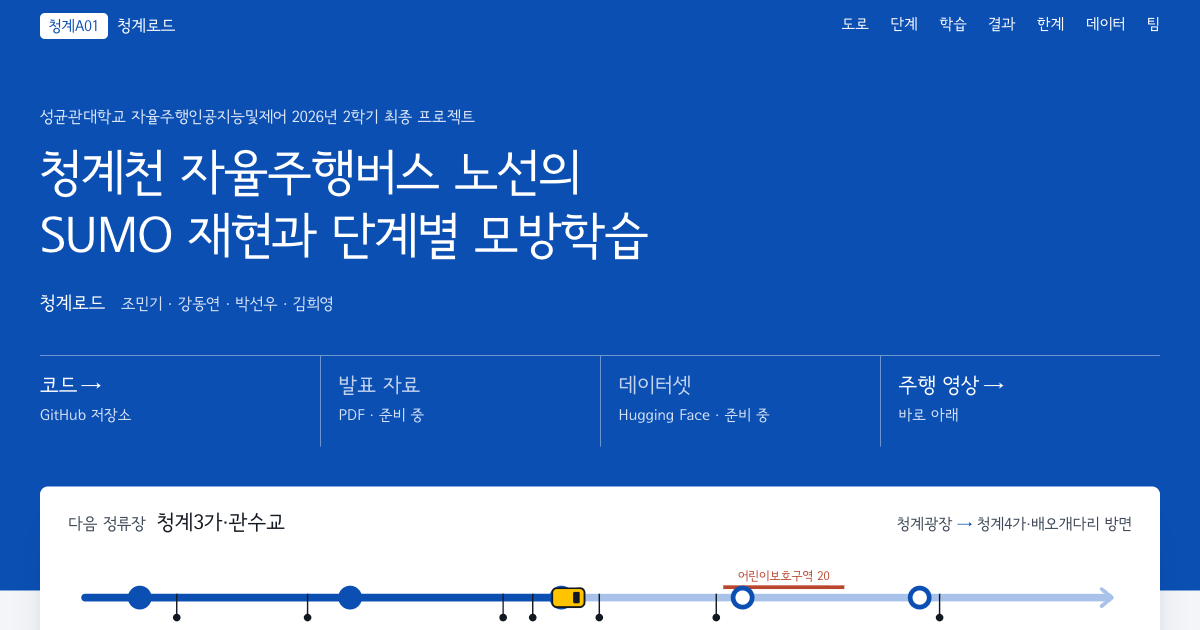
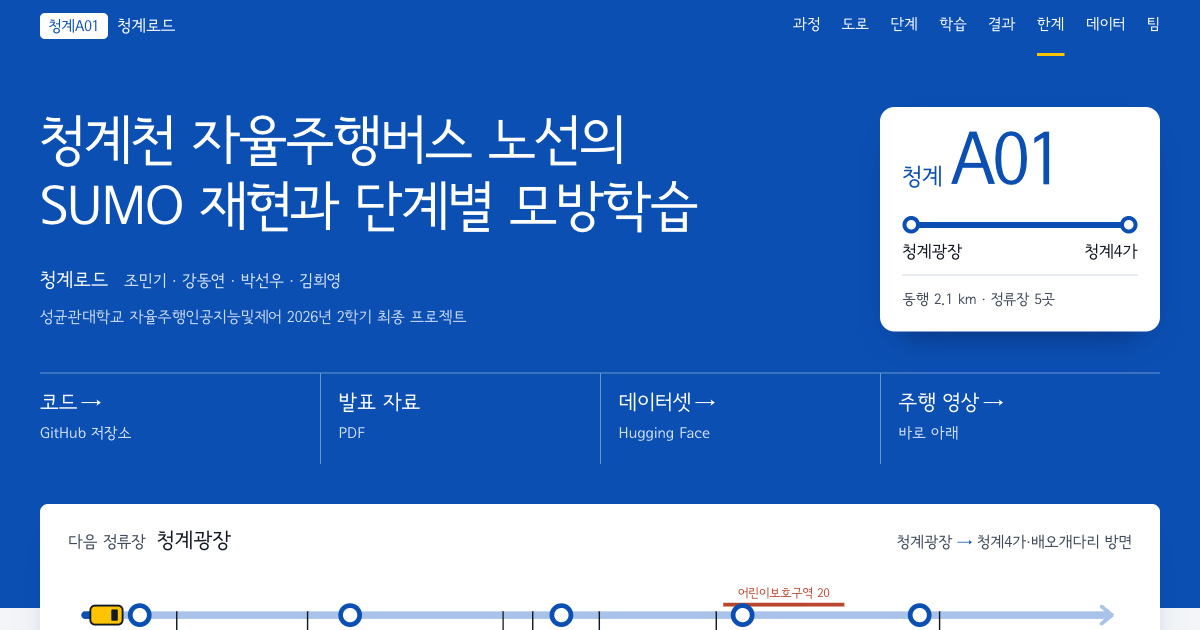
최종 모델 학습 설명·모델 링크, 5단계 수집 내용 표, 팀 역할, 개요 문구, 미리보기 이미지 갱신

diff --git a/index.html b/index.html
@@ -112,7 +112,7 @@
     <p>이 프로젝트의 목표는 사람의 개입을 줄여, 미국 자동차기술자협회(SAE)가 정한 자율주행 4단계(정해진 구역 안에서 사람이 개입하지 않아도 되는 고도 자동화)에 다가가는 모델을 만드는 것입니다.</p>
     <p>이 프로젝트에서는 청계A01의 동행 구간(청계광장 → 청계4가, 2.1&nbsp;km)을 SUMO로 만들었습니다. 도로 형상은 OpenStreetMap, 차로 수는 로드뷰 조사, 신호 주기는 서울시 T-DATA 실측값과 교통영향평가 자료를 썼습니다.</p>
     <p>같은 도로에 ① 정류장 ② 신호 ③ 끼어들기 ④ 어린이보호구역 ⑤ 오토바이를 차례로 추가해 5단계 환경을 만들고, 단계마다 버스 주행 모델을 학습했습니다. 학습에는 규칙 기반 전문가의 주행을 따라 하는 모방학습을 썼고, 5단계 최종 모델은 모방학습 모델을 PPO로 미세조정했습니다.</p>
-    <p>완주율은 1~3단계 97% 이상, 4단계 93.3%, 5단계 87%입니다. 다섯 단계 모두 팀 기준인 85%를 넘었습니다.</p>
+    <p>평가 판 기준 완주율은 1~3단계 97% 이상, 4단계 93.3%, 5단계 87%이고, 다섯 단계 모두 팀 기준인 85%를 넘었습니다. 5단계 최종 모델로 데이터를 수집한 6,000판에서는 81.0%였습니다.</p>
   </div>
 
   <dl class="facts">
@@ -349,6 +349,13 @@
   <div class="prose">
     <p>4단계 BC 모델에서 시작해, PPO를 더해도 BC가 배운 주행이 무너지지 않는지 확인하기 위해 KL 페널티를 준 PPO 미세조정을 30만 step 학습했습니다. 앞서 BC 모델에 PPO를 그대로 이어 학습했을 때 주행이 무너졌기 때문에, 이미 잘 달리는 4단계에서 안정성부터 확인한 것입니다. 10만 step 체크포인트는 개발 판 30개에서 완주 100%, 충돌 0%를 유지했고, KL 페널티가 없는 대조군은 완주 80%, 충돌 20%로 무너졌습니다.</p>
   </div>
+
+  <h3>5단계 최종 모델 (BC 후 PPO 미세조정)</h3>
+  <div class="prose">
+    <p>최종 모델은 5단계 BC 모델(<code>s5_student.pt</code>)에서 시작해 같은 방식으로 PPO를 30만 step 더 학습한 것입니다. KL 페널티 계수는 0.1에서 시작해 0.01 아래로 내리지 않았고, 차선변경 출력은 BC 모델의 것을 그대로 두고 가감속만 학습했습니다. 보상에서 속도 항은 뺐고, 가치 신경망은 정책과 분리했습니다. 학습률은 정책 1e-5, 가치 1e-4, 할인율은 0.99입니다.</p>
+    <p>평가와 데이터 수집에는 25만 step 체크포인트(<code>step250k.pt</code>)를 썼습니다. 개발 판 30개에서 완주 93.3%, 충돌 1판이었고, 학습에 쓰지 않은 평가 판 100개에서 완주 87%, 충돌 3%입니다.</p>
+  </div>
+  <p class="links"><a href="https://github.com/TranserZ/Artificial-Intelligence-and-Control-for-Autonomous-Driving/tree/model/kl-ppo/results/klppo1_s5_s0">최종 모델 폴더 (step250k.pt, 학습 설정, 평가 방법)</a></p>
   </div>
 </section>
 
@@ -452,7 +459,7 @@
     <p>6단계(5단계 + 불법주정차)도 학습했지만 팀 기준을 넘지 못해, 팀 최종 환경은 5단계로 정했습니다.</p>
   </div>
 
-  <h4>6단계 최종 모델</h4>
+  <h4>6단계 BC 모델</h4>
   <div class="tbl">
     <table class="narrow">
       <thead><tr><th>평가 판</th><th class="n">판 수</th><th class="n">완주</th><th class="n">충돌</th></tr></thead>
@@ -503,7 +510,7 @@
   </div>
 
   <div class="prose">
-    <p>수집 코드는 <code>collect_pomdp_data.py</code>이고, 전문가 또는 학생이 주행하는 동안 스텝마다 한 행을 기록합니다. 제출한 5단계 데이터는 최종 모델(PPO 미세조정)이 주행한 기록입니다. 값이 없는 칸은 −1입니다. 신호가 없는 1단계에서는 신호 관련 42칸이 모두 −1입니다.</p>
+    <p>수집 코드는 <code>collect_pomdp_data.py</code>이고, 모델이 주행하는 동안 스텝마다 한 행을 기록합니다. 값이 없는 칸은 −1입니다. 신호가 없는 1단계에서는 신호 관련 42칸이 모두 −1입니다.</p>
   </div>
 
 <pre class="code" tabindex="0"><code>import pandas as pd
@@ -512,9 +519,29 @@ df = pd.read_csv("data/&lt;이름&gt;.table.csv.gz")
 X = df.filter(like="obs.").to_numpy()                               # 관측 67개
 y = df[["action_raw.accel", "action_raw.lane_change"]].to_numpy()   # BC 정답</code></pre>
 
+  <h3>5단계 수집 내용</h3>
+  <div class="prose">
+    <p>제출한 데이터는 5단계 최종 모델(<code>step250k.pt</code>)이 규칙과 안전 필터 없이 결정적 행동으로 주행한 기록입니다. 담당 번호마다 seed 2,000개를 맡아 2,000판씩 수집했고, 충돌이나 시간초과로 끝난 판도 빼지 않고 담았습니다. 판은 <code>seed</code> 열로 구분합니다.</p>
+  </div>
+  <div class="tbl">
+    <table class="narrow">
+      <thead><tr><th>담당</th><th>seed</th><th class="n">판 수</th><th class="n">행 수</th><th class="n">SUMO</th></tr></thead>
+      <tbody>
+        <tr><td>1번</td><td>5,000,000 ~ 5,001,999</td><td class="n">2,000</td><td class="n">2,894,132</td><td class="n">1.25.0</td></tr>
+        <tr><td>2번</td><td>5,010,000 ~ 5,011,999</td><td class="n">2,000</td><td class="n">2,931,022</td><td class="n">1.27.1</td></tr>
+        <tr><td>3번</td><td>5,020,000 ~ 5,021,999</td><td class="n">수집 중</td><td class="n">–</td><td class="n">1.25.0</td></tr>
+        <tr><td>4번</td><td>5,030,000 ~ 5,031,999</td><td class="n">2,000</td><td class="n">2,901,267</td><td class="n">1.25.0</td></tr>
+        <tr><td><b>1·2·4번 합계</b></td><td></td><td class="n">6,000</td><td class="n">8,726,421</td><td class="n"></td></tr>
+      </tbody>
+    </table>
+  </div>
+  <p class="note">환경 변수는 <code>CGC_STAGE=5</code>, <code>OBS_SCAN=0</code>입니다. 6,000판의 충돌률은 4.78%이고 담당별로는 1번 5.55%, 2번 3.25%, 4번 5.55%입니다. 2번만 SUMO 버전이 달라 차이가 난 것으로 봅니다.</p>
+
   <p class="links">
     <a data-link="dataset" href="#">Hugging Face 데이터셋</a>
     <a href="https://github.com/TranserZ/Artificial-Intelligence-and-Control-for-Autonomous-Driving/blob/BehaviorCloning/docs/data_columns.md">컬럼 정의 전체 (data_columns.md)</a>
+    <a href="https://github.com/TranserZ/Artificial-Intelligence-and-Control-for-Autonomous-Driving/tree/data/s5-mingi/data_mingi">수집 데이터 1·4번 (GitHub)</a>
+    <a href="https://github.com/TranserZ/Artificial-Intelligence-and-Control-for-Autonomous-Driving/tree/data/s5-p2-dongyeon/data_dongyeon/s5_data_p2">수집 데이터 2번 (GitHub)</a>
   </p>
   </div>
 </section>
@@ -538,14 +565,15 @@ y = df[["action_raw.accel", "action_raw.lane_change"]].to_numpy()   # BC 정답<
     </li>
     <li>
       <h3>박선우</h3>
-      <p>순수 PPO 단계별 학습, 어텐션 정책 실험, 단일 PPO 한계 분석</p>
+      <p>순수 PPO 단계별 학습, 어텐션 정책 실험, 단일 PPO 한계 분석, 데이터셋 정리와 Hugging Face 업로드</p>
       <a href="https://github.com/TranserZ/Artificial-Intelligence-and-Control-for-Autonomous-Driving/tree/model/sunwoo-ppo-stage/docs/experiments">model/sunwoo-ppo-stage 브랜치</a>
     </li>
     <li>
       <h3>김희영</h3>
-      <p>정류장 위치, 차로 수, 어린이보호구역, 불법주정차 다발구역의 위치 로드뷰 조사, 테스트 스크립트 제작, 모방학습 모델의 PPO 미세조정</p>
+      <p>정류장 위치, 차로 수, 어린이보호구역, 불법주정차 다발구역의 위치 로드뷰 조사, 테스트 스크립트 제작, 모방학습 모델의 PPO 미세조정(5단계 최종 모델)</p>
       <a href="https://github.com/TranserZ/Artificial-Intelligence-and-Control-for-Autonomous-Driving/tree/huiyoung/ppo">순수 PPO 실험 브랜치</a>
       <a href="https://github.com/TranserZ/Artificial-Intelligence-and-Control-for-Autonomous-Driving/tree/huiyoung/bc-ppo-kl">모방학습 + PPO 미세조정 브랜치</a>
+      <a href="https://github.com/TranserZ/Artificial-Intelligence-and-Control-for-Autonomous-Driving/tree/model/kl-ppo/results/klppo1_s5_s0">5단계 최종 모델 폴더</a>
     </li>
   </ul>
   </div>

diff --git a/README.md b/README.md
@@ -37,7 +37,7 @@ python3 -m http.server 8000     # 이 폴더에서 실행 → http://localhost:8
 
 ## 영상과 테스트 판 수치를 만든 방법
 
-`model/dongyeon-bc56` 브랜치의 `models/dongyeon_bc/s5_student.pt` 를 `CGC_STAGE=5`, 안전 필터 감시 모드, 결정적 행동으로 실행했습니다 (SUMO 1.27.1).
+영상과 실패 위치 그림은 5단계 BC 모델로 만들었습니다(팀 최종 모델은 이 모델을 PPO로 미세조정한 `model/kl-ppo` 브랜치의 `results/klppo1_s5_s0/step250k.pt`). `model/dongyeon-bc56` 브랜치의 `models/dongyeon_bc/s5_student.pt` 를 `CGC_STAGE=5`, 안전 필터 감시 모드, 결정적 행동으로 실행했습니다 (SUMO 1.27.1).
 
 - `tools/render_run.py`: 학생 모델을 numpy 로 계산해 주행시키고, sumo-gui 화면을 스텝마다 저장하고 로그를 남깁니다. `--nogui` 면 로그만 남깁니다.
 - `tools/eval5.sh`: seed 1000~1089 를 화면 없이 실행합니다.
